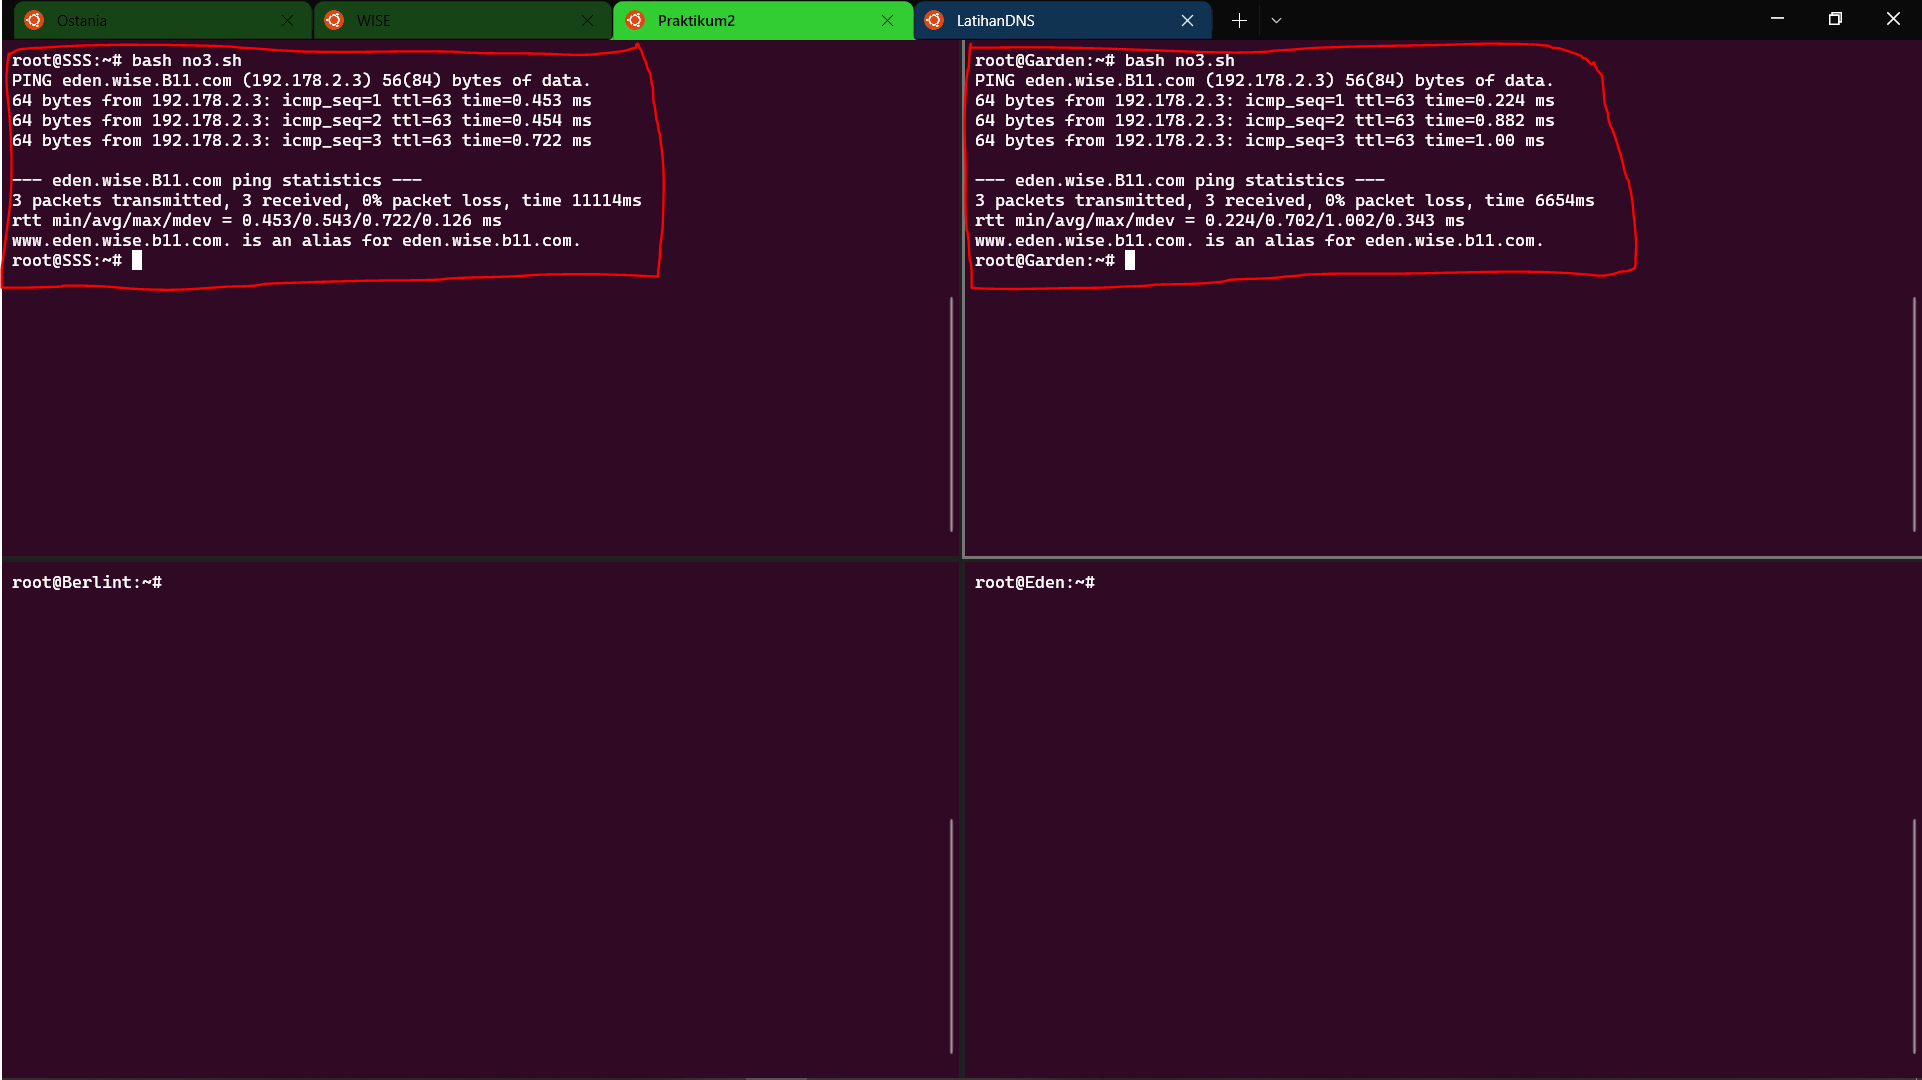
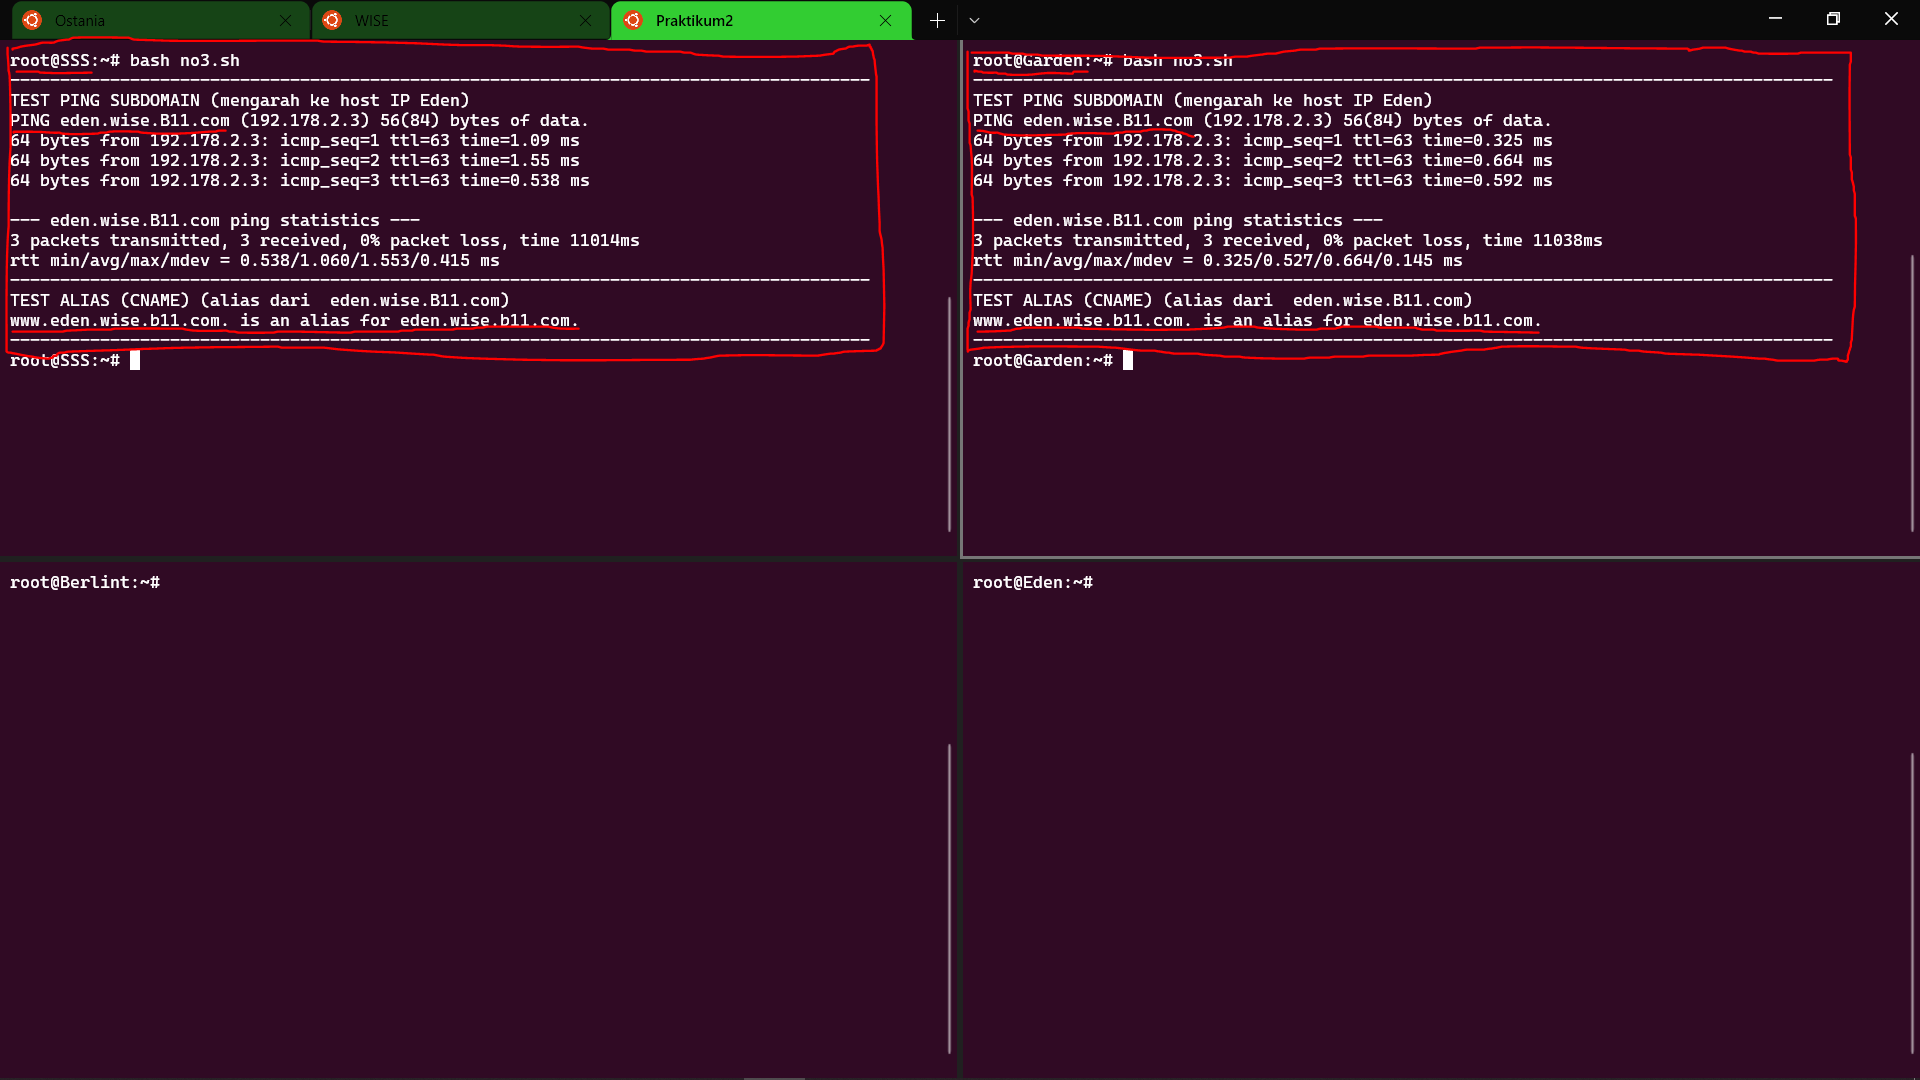
selesai soal no 3 & 4

diff --git a/README.md b/README.md
@@ -206,7 +206,7 @@ Setelah berhasil melakukan konfigurasi dan selesai menjalankan start command, ki
 
 ### Script
 
-Pertama-tama pada node WISE (Master), kita harus konfigurasikan `/etc/bind/named.conf.local` dengan domain wise.B11.com. Setelah itu buatlah direktori `/etc/bind/wise`. Kemudian buatlah file `wise.B11.com` pada direktori yang baru saja dibuat dan isilah file sesuai dengan contoh dibawah ini (setelah command `mkdir /etc/bind/wise`).
+Pertama-tama pada node WISE (Master), kita harus konfigurasikan `/etc/bind/named.conf.local` dengan domain wise.B11.com. Setelah itu buatlah direktori `/etc/bind/wise`. Kemudian buatlah file `wise.B11.com` pada direktori yang baru saja dibuat dan isilah file sesuai dengan contoh dibawah ini (setelah command `mkdir /etc/bind/wise`). Setelah selesai maka kita harus merestart bind9 dengan command `service bind9 restart`.
 
 > Script dibawah ini terdapat pada **root node WISE**, untuk menjalankannya bisa langsung dengan melakukan command `bash no2.sh`
 
@@ -269,34 +269,119 @@ Kemudian pada node client (SSS & Garden), kita harus lakukan setting nameserver 
 
 
 ## Question 3
+
 > Setelah itu ia juga ingin membuat subdomain eden.wise.yyy.com dengan alias www.eden.wise.yyy.com yang diatur DNS-nya di WISE dan mengarah ke Eden
+
 ### Script
+
+Setelah selesai maka kita harus merestart bind9 dengan command `service bind9 restart`.
+
+> Script dibawah ini terdapat pada **root node WISE**, untuk menjalankannya bisa langsung dengan melakukan command `bash no3.sh`
+
 - WISE
     
     ```
+    echo -e '
+    ;
+    ; BIND data file for local loopback interface
+    ;
+    $TTL    604800
+    @       IN      SOA     wise.B11.com. root.wise.B11.com. (
+                                  2         ; Serial
+                             604800         ; Refresh
+                              86400         ; Retry
+                            2419200         ; Expire
+                             604800 )       ; Negative Cache TTL
+    ;
+    @               IN      NS      wise.B11.com.
+    @               IN      A       192.178.3.2             ; IP WISE
+    www             IN      CNAME   wise.B11.com.
+    eden            IN      A       192.178.2.3             ; IP Eden
+    www.eden        IN      CNAME   eden.wise.B11.com.
+    @               IN      AAAA    ::1
+    ' > /etc/bind/wise/wise.B11.com
+
+    service bind9 restart
     ```
+
+Kemudian kita akan mengecek dengan melakukan test ping `ping eden.wise.B11.com -c 3` dan test cname `host -t CNAME www.eden.wise.B11.com`.
+
+> Script dibawah ini terdapat pada **root node SSS & Garden**, untuk menjalankannya bisa langsung dengan melakukan command `bash no3.sh`
 
 - SSS & Garden
     
     ```
+    echo -e "--------------------------------------------------------------------------------------"
+    echo "TEST PING SUBDOMAIN (mengarah ke host IP Eden)"
+    ping eden.wise.B11.com -c 3
+    echo -e "--------------------------------------------------------------------------------------"
+    echo "TEST ALIAS (CNAME) (alias dari  eden.wise.B11.com)"
+    host -t CNAME www.eden.wise.B11.com
+    echo -e "--------------------------------------------------------------------------------------"
     ``` 
+
 ### Test
+
 ![image](https://raw.githubusercontent.com/Chroax/Jarkom-Modul-2-B11-2022/main/image/Soal3/Capture1.PNG)
 
 
 ## Question 4
+
 > Buat juga reverse domain untuk domain utama
+
 ### Script
+
+Setelah selesai maka kita harus merestart bind9 dengan command `service bind9 restart`.
+
+> Script dibawah ini terdapat pada **root node WISE**, untuk menjalankannya bisa langsung dengan melakukan command `bash no4.sh`
+
 - WISE
     
     ```
+    echo -e '
+    zone "wise.B11.com" {
+            type master;
+            file "/etc/bind/wise/wise.B11.com";
+    };
+
+    zone "3.178.192.in-addr.arpa" {
+        type master;
+        file "/etc/bind/wise/3.178.192.in-addr.arpa";
+    };
+
+     ' > /etc/bind/named.conf.local
+
+    echo -e '
+    $TTL    604800
+    @       IN      SOA     wise.B11.com. root.wise.B11.com. (
+                                  2         ; Serial
+                             604800         ; Refresh
+                              86400         ; Retry
+                            2419200         ; Expire
+                             604800 )       ; Negative Cache TTL
+    ;
+    3.178.192.in-addr.arpa.    IN     NS      wise.B11.com.
+    2                          IN     PTR     wise.B11.com.
+    ' > /etc/bind/wise/3.178.192.in-addr.arpa
+
+    service bind9 restart
     ```
+
+Kemudian kita akan mengecek reverse domain dengan melakukan `host -t PTR 192.178.3.2`.
+
+> Script dibawah ini terdapat pada **root node SSS & Garden**, untuk menjalankannya bisa langsung dengan melakukan command `bash no4.sh`
 
 - SSS & Garden
     
     ```
+    echo -e "--------------------------------------------------------------------------------------"
+    echo "TES REVERSE DOMAIN (point to wise.b11.com.)"
+    host -t PTR 192.178.3.2
+    echo -e "--------------------------------------------------------------------------------------"
     ``` 
+
 ### Test
+
 ![image](https://raw.githubusercontent.com/Chroax/Jarkom-Modul-2-B11-2022/main/image/Soal4/Capture1.PNG)
 
 
